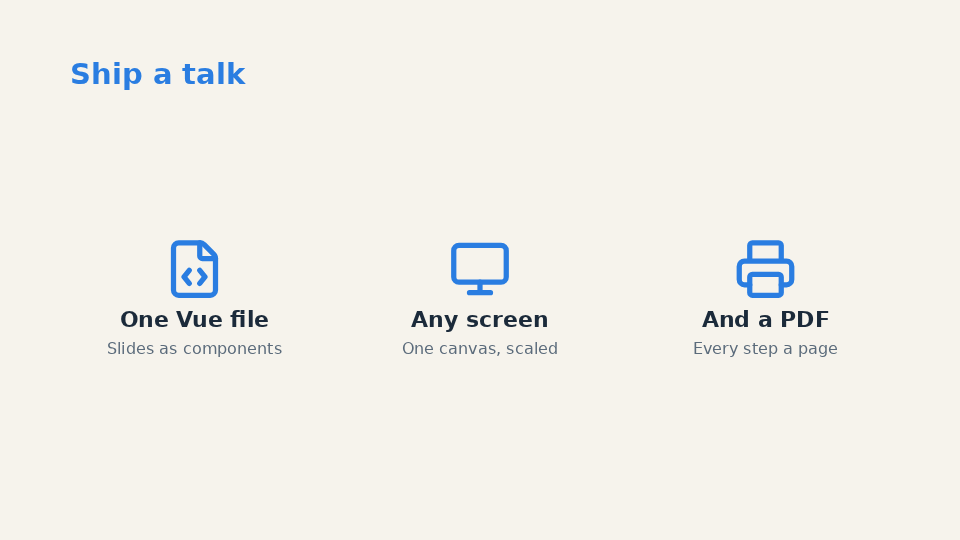
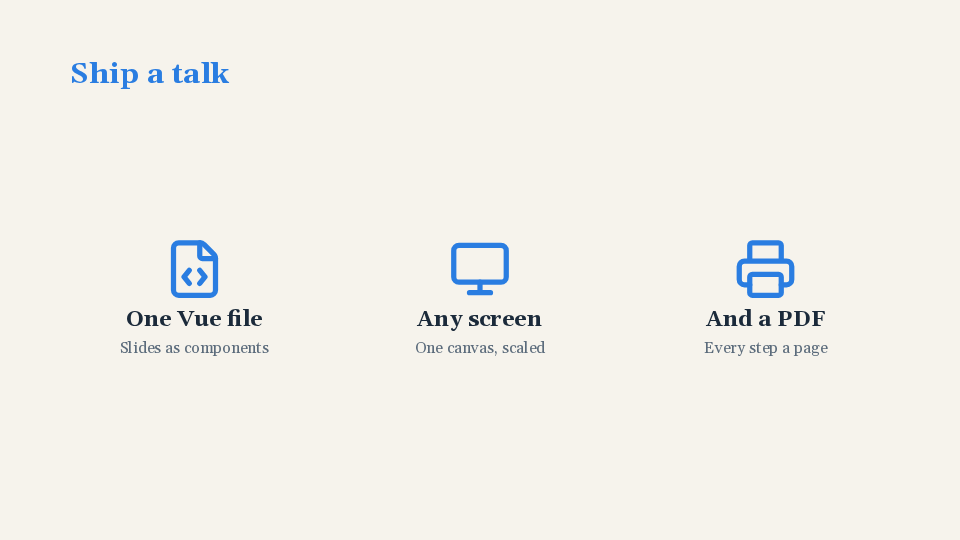
feat(themes): the default theme's text font is Gelasio, fetched by the build
Georgia is a system font no provider serves, so fontless (which fetches the first family of a
declaration) loaded nothing for the default theme, and machines without Georgia drew another
font. --ar-font-sans is now "Gelasio", Georgia, serif: Gelasio has Georgia's metrics and is on
Google Fonts, so every build and the dev server serve it (400/600/700, upright and italic: six
files of a variable font, about 180 KB), with Georgia as its fallback.

The smoke's web-font checks no longer assume the defaults name no web font: the main build must
carry the defaults' @font-face too, and the system-fonts-only and one-built-in-theme builds allow
the defaults' families (read from the package's CSS). The docs pictures in the default theme are
regenerated (shots, the default theme sheet).

diff --git a/themes/default.css b/themes/default.css
@@ -1,6 +1,7 @@
-/* default: the engine's defaults as they are (src/styles/tokens.css): a warm light page, Georgia,
-   a blue accent, a light code window. It changes no token, on purpose: the defaults are declared
-   once, at the root with zero specificity, so a project's own :root rule still wins over them
-   while a deck wears default. This file makes default a theme like any other: given by a theme
-   source (the library's own, first), so it is always there to offer and to fall back to. */
+/* default: the engine's defaults as they are (src/styles/tokens.css): a warm light page, Gelasio
+   (Georgia's metrics, fetched by the build; Georgia where it cannot be), a blue accent, a light
+   code window. It changes no token, on purpose: the defaults are declared once, at the root with
+   zero specificity, so a project's own :root rule still wins over them while a deck wears default.
+   This file makes default a theme like any other: given by a theme source (the library's own,
+   first), so it is always there to offer and to fall back to. */
 [data-theme="default"] {}

diff --git a/vite/fonts.js b/vite/fonts.js
@@ -10,7 +10,9 @@
 // providers in turn (Google Fonts, Bunny Fonts, Fontshare, Fontsource; through unifont), puts its
 // files in the build (assets/_fonts), adds the @font-face rules, and fallbacks with matched
 // metrics (fontaine) so the text does not jump when the font arrives. The dev server serves the
-// same files.
+// same files. Only the first family of each declaration is fetched (the rest are its fallbacks):
+// the defaults' "Gelasio", Georgia, serif (src/styles/tokens.css) gets Gelasio, Georgia's metrics
+// on Google Fonts, in every build; Georgia itself is a system font, never fetched.
 //
 // Our defaults, over fontless's (each one replaced by the project's own value for that key):
 //   - weights 400, 600 and 700, each upright and italic (fontless takes 400 only: bold text

diff --git a/src/styles/tokens.css b/src/styles/tokens.css
@@ -44,7 +44,8 @@
   --ar-accent: #2a7de1;              /* h2, cover bar, section background (layouts/), progress, highlights */
   --ar-accent-fg: #fff;              /* text on the accent (section slides, layouts/section.css) */
   --ar-letterbox: #1b2a3a;           /* around the canvas when the window shape differs */
-  --ar-font-sans: Georgia, "Times New Roman", serif;
+  --ar-font-sans: "Gelasio", Georgia, serif;   /* Gelasio: Georgia's metrics, fetched by the build
+                                                  (vite/fonts.js); Georgia never is */
   --ar-font-mono: ui-monospace, Menlo, monospace;
   /* --ar-font-heading: not declared: headings keep the font around them (Slide.vue) */
   --ar-text-base: 42px;              /* base font size of a slide */

diff --git a/docs/guide/themes.md b/docs/guide/themes.md
@@ -1,11 +1,11 @@
 # Themes
 
 Every token the engine reads has a default ([Theme tokens](../reference/theme-tokens.md), declared in
-`styles/tokens.css`), and the defaults are the `default` theme: a light page, Georgia, a blue
-accent, a light code window. The library ships it with five more, each with a character of its
-own (dark, light, editorial, vivid, terminal): [Built-in themes](built-in-themes.md). Every deck
-can wear them (`arao({ builtinThemes })` turns them off, all or some), and `default` is always
-there.
+`styles/tokens.css`), and the defaults are the `default` theme: a light page, Gelasio (a web font
+with Georgia's metrics), a blue accent, a light code window. The library ships it with five more,
+each with a character of its own (dark, light, editorial, vivid, terminal):
+[Built-in themes](built-in-themes.md). Every deck can wear them (`arao({ builtinThemes })` turns
+them off, all or some), and `default` is always there.
 
 A project theme declares only what it changes. This one is the examples' (`docs/examples/themes/`;
 in a slides project, `src/themes/ocean.css`), with a deck that wears it:
@@ -218,13 +218,18 @@ Gill Sans, Palatino, Trebuchet MS, SF Pro… in `vite/fonts.js`). Generic names 
 - **The build asks the providers.** Each family name goes to Google, Bunny, Fontshare and
   Fontsource at build time (the deck's viewers never contact them: the files are served with the
   deck). Turn it off for a family, or altogether, below.
+- **The defaults name one too**: Gelasio, `default`'s text font, is in the engine's own CSS, so
+  every build fetches and ships it, whatever the themes: six files (a variable font, upright and
+  italic, in three subsets), about 180 KB. `fonts: false`, or
+  `fonts: { families: [{ name: 'Gelasio', provider: 'none' }] }`, leaves it out, and the text falls
+  back to Georgia (or the system's serif).
 - **The built-in themes name fonts too**, thirteen families between them: with all of them loaded
   (the default), every build fetches and ships them, about 140 files, some 2.6 MB in
   `assets/_fonts` (a viewer's browser downloads only the files of the theme on screen). A project
-  with system fonts only goes from no font file to those; offline, its build takes longer and
-  warns for each family the providers do not answer. `arao({ builtinThemes: false })`, or the
-  list of the ones the decks wear, keeps the others' fonts out; `fonts: false` fetches none, and
-  the built-in themes fall back to system fonts.
+  whose own themes use system fonts only goes from Gelasio's files alone to those; offline, its
+  build takes longer and warns for each family the providers do not answer.
+  `arao({ builtinThemes: false })`, or the list of the ones the decks wear, keeps the others'
+  fonts out; `fonts: false` fetches none, and the built-in themes fall back to system fonts.
 - **Network at build time.** The files are cached in `node_modules/.cache/fontless`, but the
   providers' catalogues are cached for a week only (and again on a new version), and a fresh
   install (`npm ci` in CI) starts empty. Offline, or with a provider that does not answer (a

diff --git a/docs/guide/built-in-themes.md b/docs/guide/built-in-themes.md
@@ -31,9 +31,9 @@ arao({ builtinThemes: false })                // none but default
 A built-in theme left out is not in the build at all: no CSS, no fonts, no name in the picker.
 That matters for the fonts: together the five name thirteen families, and with all of them loaded
 every build fetches and ships them (about 140 files, some 2.6 MB in `assets/_fonts`; a viewer's
-browser downloads only the files of the theme on screen). A project whose decks wear their own
-themes, or a couple of these, can keep the rest out. A name that is no built-in theme stops the
-build.
+browser downloads only the files of the theme on screen), on top of `default`'s Gelasio, which
+every build ships. A project whose decks wear their own themes, or a couple of these, can keep the
+rest out. A name that is no built-in theme stops the build.
 
 Each sheet below is the same deck, `scripts/theme-sheets/Tour.vue`, in that theme: eleven slides
 (a cover, a footer and bullets, a section, code, a table, a picture, columns, cards, two zones, a
@@ -41,13 +41,14 @@ small code window, a closing cover) and, last, the presenter view.
 
 ## default
 
-The engine's defaults ([Theme tokens](../reference/theme-tokens.md)): a warm light page, Georgia, a
-blue accent, a light code window. Its file names it and sets nothing, so that a project's own
-`:root { --ar-accent: … }` still changes what `default` wears.
+The engine's defaults ([Theme tokens](../reference/theme-tokens.md)): a warm light page, Gelasio (a
+web font with Georgia's metrics, fetched by every build), a blue accent, a light code window. Its
+file names it and sets nothing, so that a project's own `:root { --ar-accent: … }` still changes
+what `default` wears.
 
 | Headings | Text | Code | Background | Text | Accent |
 |---|---|---|---|---|---|
-| Georgia | Georgia | the system's monospace (`github-light`) | `#f6f3ec` | `#1b2a3a` | `#2a7de1` |
+| Gelasio | Gelasio | the system's monospace (`github-light`) | `#f6f3ec` | `#1b2a3a` | `#2a7de1` |
 
 ![The tour deck in default](../assets/themes/default.png)
 

diff --git a/docs/reference/theme-tokens.md b/docs/reference/theme-tokens.md
@@ -16,7 +16,7 @@ How themes are written, found and applied: [Themes](../guide/themes.md).
 | `--ar-accent` | `#2a7de1` | `h2`, cover bar, section background (their layouts' defaults), progress, highlights |
 | `--ar-accent-fg` | `#fff` | text on accent (section slides) |
 | `--ar-letterbox` | `#1b2a3a` | around the canvas when the window shape differs |
-| `--ar-font-sans` | `Georgia, "Times New Roman", serif` | text font; a web font named here is fetched at build time ([Fonts](../guide/themes.md#fonts)) |
+| `--ar-font-sans` | `"Gelasio", Georgia, serif` | text font; a web font named here is fetched at build time ([Fonts](../guide/themes.md#fonts)), as `default`'s Gelasio is (Georgia's metrics; Georgia where it cannot be fetched) |
 | `--ar-font-mono` | `ui-monospace, Menlo, monospace` | code font; a web font named here is fetched at build time |
 | `--ar-font-heading` | none: the font around the heading (the text font) | the headings' font (`h1`–`h6` in a slide, the cover's and the section's titles included); a web font named here is fetched at build time |
 | `--ar-text-base` | `42px` | base font size of a slide |

diff --git a/docs/architecture.md b/docs/architecture.md
@@ -311,4 +311,6 @@ Web fonts are the Vite plugin's too (`vite/fonts.js`): it includes fontless, whi
 families in the CSS the project loads (`font-family`, and the `--ar-font-*` tokens through
 `processCSSVariables: 'ar-font'`), fetches the ones that are not system fonts from the providers at
 build time, and writes them and their `@font-face` (with metric fallbacks) into the build. The
-engine itself knows nothing of it: a theme's tokens name families, and the CSS does the rest.
+engine itself knows nothing of it: a theme's tokens name families, and the CSS does the rest. The
+defaults' tokens too: `tokens.css` names Gelasio (Georgia's metrics; Georgia, a system font, no
+provider serves), so every build fetches it.

diff --git a/skills/arao/references/themes-and-fonts.md b/skills/arao/references/themes-and-fonts.md
@@ -115,6 +115,8 @@ package) and serves it with the deck, with matched fallbacks:
 
 - No `@font-face`, no font files, no `<link>` for a font a provider has.
 - System fonts (Georgia, Arial, Helvetica, Menlo…) and generic names are never fetched.
+- The defaults' text font is Gelasio (Georgia's metrics), fetched by every build; with
+  `fonts: false` or offline, Georgia.
 - Weights 400, 600 and 700, upright and italic, are fetched by default.
 - The first build needs the network; the catalogue cache lasts a week, and `npm ci` starts empty.
   Offline or on a provider timeout the build still passes with an `[arao] fonts:` warning and the
